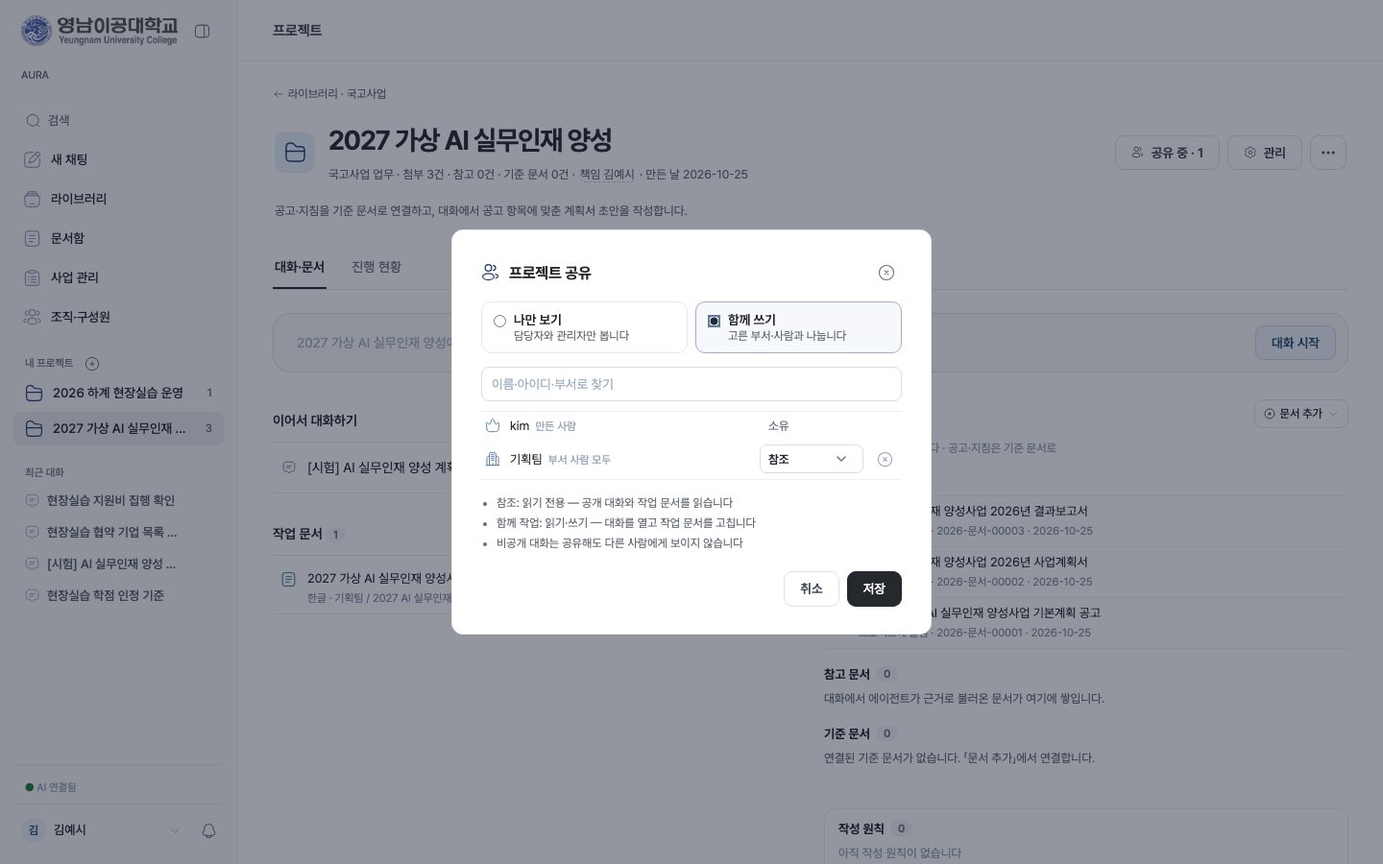
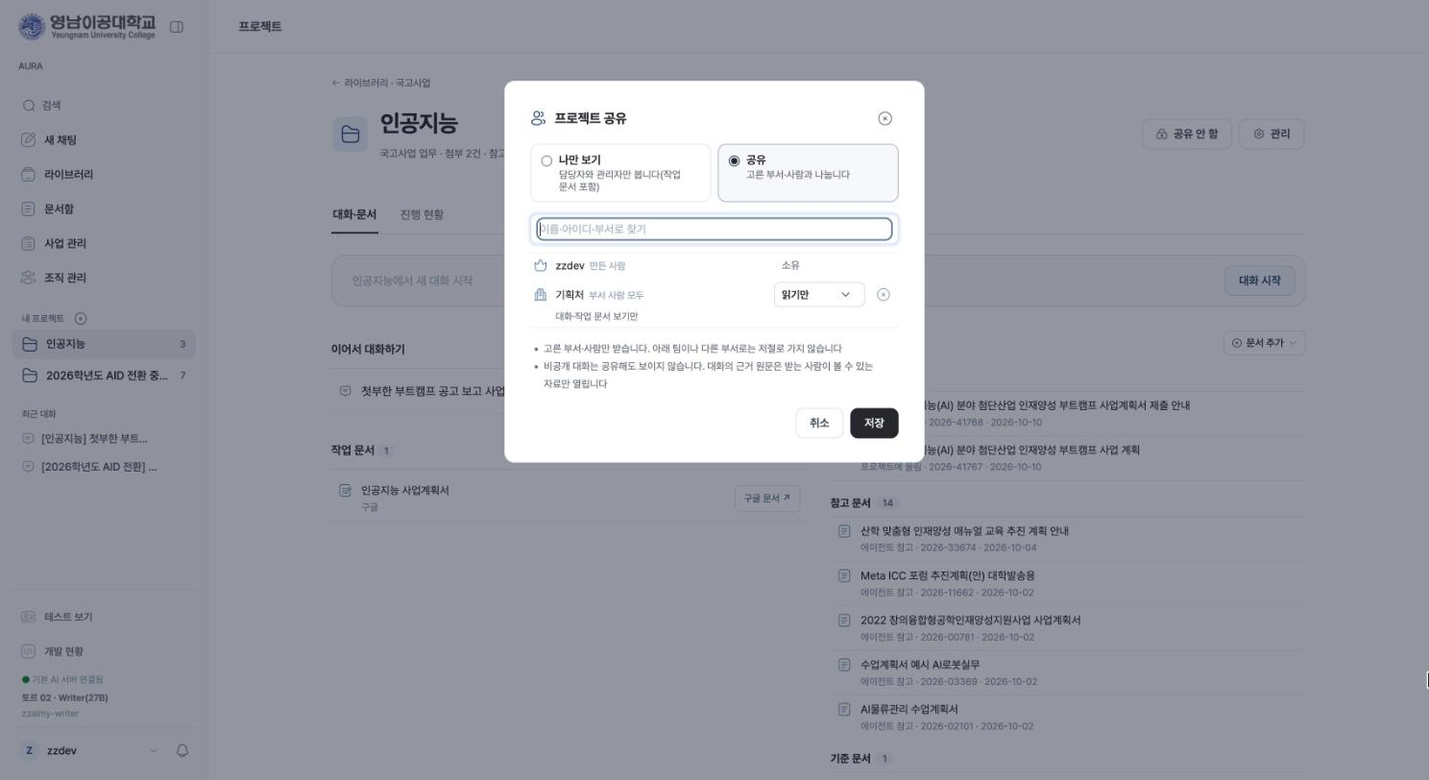
논문: 조직 관리·업무 도우미·개발 화면·진행 현황·공유 권한을 지금 화면으로, 그림 6장 다시 찍음
- 3장: 조직 관리(/team) 트리·전체 사용자, 단계 제한 없는 부서 트리(ADR-0073), 공유 읽기만/함께 작업(ADR-0075)
- 4장: 업무 도우미 옆 패널·아래 시트·폭 조절·화면 칸 번호·마지막 단추는 시킨 때만, 표 4-19·4-20(dev_nav 여섯 묶음), 진행 현황 탭, 공유 범위, 시연 흐름, 아바타 표기
- 부록: 관리자 화면 표, 5.1 계정과 부서, 개인정보 점검·도구 연결 단추, 시연 위치·흐름
- 그림: 06-org-chart·08-users·f4-20·f4-29·f4-30·g02 를 운영 화면(시험 계정, 전자우편 가림)으로
- 중간 발표자료: 테스트·커밋·ADR 수, 원본 관리·조직 관리 이름

diff --git a/docs/paper/논문/부록-사용-설명서.md b/docs/paper/논문/부록-사용-설명서.md
@@ -45,7 +45,7 @@ AURA 가 쓰는 글은 사람이 검토하는 초안이다. 숫자와 최종 판
 | 「공유받은 프로젝트」 | 다른 사람이 나와 나눈 프로젝트 |
 | 「최근 대화」 | 지난 대화. 줄 끝 「⋯」 에서 「이름 변경」·「보관」·「삭제」 |
 | 사이드바 아래 | AI 연결 상태(「● AI 연결됨」), 「알림」 종, 사용자 메뉴(「설정」·「로그아웃」) |
-| 오른쪽 아래 | 「업무 도우미」 단추(채팅 화면과 프로젝트 첫 화면에는 없다) |
+| 오른쪽 아래 | 「업무 도우미」 단추. 누르면 오른쪽 옆 패널(좁은 화면은 아래 시트)이 열린다. 채팅 화면과 프로젝트 첫 화면에는 없다 |
 
 메뉴는 계정에 따라 다르게 보인다. 다음 표에서 ○ 는 보임, × 는 보이지 않음이다.
 
@@ -57,7 +57,7 @@ AURA 가 쓰는 글은 사람이 검토하는 초안이다. 숫자와 최종 판
 | 「조직 관리」 | × | ○(보기) | ○(보기) | ○(맡은 부서 구성원) | ○(맡은 처·단 아래) | ○(전체·계정) |
 | 「프로젝트 추가」(+) | × | ×(권한을 받으면 ○) | ○ | ○ | ○ | ○ |
 | 「알림」 종, 업무 도우미 | × | ○ | ○ | ○ | ○ | ○ |
-| 「테스트 보기」, 「공동 편집 시연」, 「개발 현황」 | × | × | × | × | × | ○ |
+| 「테스트 보기」, 「개발 현황」(공동 편집 시연은 개발 화면 안) | × | × | × | × | × | ○ |
 
 [표 부록-1] 계정별로 보이는 메뉴
 
@@ -131,7 +131,7 @@ AURA 가 쓰는 글은 사람이 검토하는 초안이다. 숫자와 최종 판
 ### 2.6 관리자 — 첫 점검
 
 1. 사이드바 아래 「개발 현황」 을 눌러 개발 화면으로 들어간다(/dev).
-2. 「사용자·계정」 에서 계정·부서를 확인하고, 「학교 계정 연결 현황」 에서 구글 앱이 등록됐는지 본다.
+2. 「구글 계정 연결」 에서 구글 앱이 등록됐는지와 「학교 계정 연결 현황」 을 본다. 계정·부서는 업무 화면의 「조직 관리」 에서 확인한다(부록 4.10).
 3. 「도구·모델 연결」 의 「LLM 연결」 에서 서버별 「연결 확인」 을 누른다.
 4. 「RAG 공간」 에서 공통·부서·학생 RAG 의 문서 수를 확인한다.
 5. 업무 화면으로 돌아가(「업무 화면으로」) 「테스트 보기」 로 다른 계정이 보는 범위를 확인한다(부록 5.2).
@@ -568,12 +568,16 @@ AURA 가 쓰는 글은 사람이 검토하는 초안이다. 숫자와 최종 판
 
 업무 도우미는 채팅 밖 모든 화면 오른쪽 아래의 둥근 단추로 연다. 화면 사용법을 묻거나 화면에서 할 일을 맡긴다.
 
-1. 오른쪽 아래 단추를 눌러 「업무 도우미」 패널을 연다.
+1. 오른쪽 아래 단추를 눌러 「업무 도우미」 패널을 연다. 넓은 화면에서는 오른쪽 옆 패널로 열려 본문이 그만큼 좁아지고(본문 단추를 가리지 않는다),
+   좁은 화면에서는 아래에서 올라오는 시트로 열린다. 패널 왼쪽 가장자리를 끌어 폭을 바꾸면 그 폭을 기억한다.
 2. 「메시지를 입력하세요」 칸에 묻는다. 예: 「이 규정 학생에게 공개하려면 어떻게 해?」, 「새 프로젝트 만들고 계획서 쓰기 시작해 줘」.
 3. 도우미가 할 일을 제안하면 「이렇게 하겠습니다 — …」 와 함께 「실행」 단추가 뜬다. 누르면 서버가 권한을 다시 확인한 뒤 화면 단추와 같은 일을 한다. 직접 하고 싶으면 「화면에서 직접」 을 누른다. 화면 위 커서가 그 단추를 가리켜 보인다.
 4. 화면의 글을 선택하면 「쉽게 설명」·「간추리기」·「관련 규정 찾기」·「직접 묻기」 메뉴가 뜬다.
-5. 화면 조작을 시키면(「성명 홍길동으로 넣어 줘」) AURA 커서가 그 칸에 넣는다. 저장 같은 마지막 단추는 「저장해 줘」처럼 직접 말했을 때만 누르고, 아니면 「실행」 을 눌러 맡긴다.
-6. 지난 대화는 패널 머리의 「지난 대화」 에서 이어 간다. 패널은 화면 오른쪽에 붙어 본문을 가리지 않고, 다른 화면으로 옮기면 닫힌다.
+5. 화면 조작을 시키면(「문서함에서 ○○ 폴더 열어 줘」, 「성명 홍길동으로 넣어 줘」) AURA 커서가 화면을 옮기고 창을 열고 칸에 넣는다. 지금 화면에 보이는
+   칸·단추라면 안내 자료에 없는 것도 다룬다. 저장 같은 마지막 단추는 「저장해 줘」처럼 직접 말했을 때만 누르고, 아니면 가리키기만 하고 「실행」 을 둔다.
+   커서가 한 일은 「화면에서 한 일」 한 줄로 남는다.
+6. 패널 머리의 「지난 대화」 에서 날짜별로 묶인 지난 대화를 찾아 이어 가고, 「새 대화」 로 새로 시작하며, 「닫기」 로 닫는다. 다른 화면으로 옮기면 닫히고,
+   커서가 화면을 옮겨 이어 할 일이 있을 때만 다시 열린다.
 
 [그림 부록-23] 업무 도우미 창과 「실행」 제안 (그림 docs/images/figures-1025/fA-23-helper-run-suggestion.jpg)
 
@@ -591,7 +595,7 @@ AURA 가 쓰는 글은 사람이 검토하는 초안이다. 숫자와 최종 판
 
 [표 부록-12] 조직 관리
 
-[그림 부록-24] 조직 관리 (그림 docs/images/06-org-chart.jpg — 다시 찍을 것)
+[그림 부록-24] 조직 관리 — 왼쪽 부서 트리와 고른 부서의 구성원 (그림 docs/images/06-org-chart.jpg)
 
 부서 지우기: 아래 부서가 있으면 확인 창에서 「아래 부서를 위로 올리기」(지운 부서의 자리로 옮겨 둠)와 「아래 부서도 함께 지우기」 가운데 고른다. 소속 사람이 있는 부서는 지우지 않는다.
 
@@ -616,41 +620,46 @@ AURA 가 쓰는 글은 사람이 검토하는 초안이다. 숫자와 최종 판
 
 | 묶음 | 화면 | 주소 | 하는 일 |
 |---|---|---|---|
-| 개요 | 개발 현황 | /dev | 규모, 문서 흐름, 「구축 현황」·「진행 현황」, 「영역별 완료 비율」, 모델 개발·학습 현황 |
-| 개요 | 처리 흐름 | /dev/flow | 문서가 검색·답·초안이 되기까지의 단계와 지금 수치 |
-| 문서·데이터 | 처리 흐름 「반입 점검」 | /dev/flow#intake | 학교 원본 → 라이브러리까지의 수, 빠진 원본·실패 목록(점검·다시 들이기는 자동) |
-| 문서·데이터 | 데이터 현황 | /dev/db | 「원본 장부」·「문서」·「기준 문서」·「대화 기록」 원값 찾기 |
-| 문서·데이터 | 원본 관리 | /dev/archive | 학교 원본 전부를 사업·연도·종류·처리 상태로 찾기, 「정리」(정리함으로·남기기), 「처리 실패」 다시 시도. 옛 /archive 주소는 여기로 |
+| 개요 | 개발 현황 | /dev | 「프로젝트 현황」, 「구축 현황」·「진행 현황」, 「영역별 완료 비율」, 모델 개발·학습 현황 |
+| 개요 | 처리 흐름 | /dev/flow | 단계 한눈 그림, 문서가 검색·답·초안이 되기까지의 단계와 지금 수치, 「반입 점검」(학교 원본 → 라이브러리까지의 수, 빠진 원본) |
+| 개요 | 논문·설계 문서 | /dev/docs | 「핵심 자료」(처음 읽을 것·논문 자료·계획·주간 보고서), 「설계 결정」, 「기록·자료 목록」 |
+| 문서 반입·읽기 | 데이터 현황 | /dev/db | 「원본 장부」·「문서」·「기준 문서」·「대화 기록」 원값 찾기 |
+| 문서 반입·읽기 | 원본 관리 | /dev/archive | 학교 원본 전부를 사업·연도·종류·처리 상태로 찾기, 「정리」(정리함으로·남기기), 「처리 실패」 다시 시도. 옛 /archive 주소는 여기로 |
 | 검색·지식 | RAG 공간 | /dev/rag | 공통·부서·학생 RAG, 규정 학생 공개, 계정별 추가 권한, 「검색 범위 시험」 |
 | 검색·지식 | 그래프 탐색 | /graph/explore | 지식그래프와 온톨로지, 내려받기 |
-| 모델 | 데이터·학습 | /dev/train | 문답 검수(Label Studio), 데이터 묶음 이력, 학습 점검 |
-| 모델 | 수집 자료 | /dev/collect | 대화·답 실행·평가·에이전트 기록을 가린 사본 묶음으로 받기 |
-| 모델 | 도구·모델 연결 | /dev/tools | 「외부 연결」, 「학습 도구 상태」, 「LLM 연결」, 「단계별 모델」 |
-| 점검 | 품질·성능 | /dev/quality | 「규정 검색 품질」, 「사업 문서 검색(GraphRAG)」, 「추출 품질 백로그」 |
-| 점검 | 개인정보·반출 점검 | /dev/pii | 「내부 마스킹 설정」, 「자가 점검 실행」, 「잔여 검사 실행」 |
-| 관리·기록 | 사용자·계정 | /dev/users | 사용자, 부서, 「학교 계정 연결 현황」 |
-| 관리·기록 | 논문·설계 문서 | /dev/docs | 설계 결정(ADR), 논문 자료, 주간 보고서 |
-| (사이드바 밖) | 변경 이력 · 모델 비교 결과 · 공동 편집 시연 | /dev/history · /dev/models/compare · /dev/coedit-demo | 작업 기록, 모델 비교 표, 세 칸 시연 |
+| 검색·지식 | 품질·성능 | /dev/quality | 「규정 검색 품질」, 「사업 문서 검색(GraphRAG)」, 「추출 품질 백로그」 |
+| 문서 작성 | 공동 편집 시연 | /dev/coedit-demo | 세 칸 시연(부록 5.7) |
+| 모델 학습 | 데이터·학습 | /dev/train | 문답 검수(Label Studio), 데이터 묶음 이력, 학습 점검 |
+| 모델 학습 | 수집 자료 | /dev/collect | 대화·답 실행·평가·에이전트 기록을 가린 사본 묶음으로 받기 |
+| 모델 학습 | 도구·모델 연결 | /dev/tools | 「외부 연결」, 「LLM 연결」, 「단계별 모델」 |
+| 보안·관리 | 구글 계정 연결 | /dev/users | 「Google 앱 등록」(처음 한 번), 「학교 계정 연결 현황」. 계정·부서는 조직 관리(/team) |
+| 보안·관리 | 개인정보·반출 점검 | /dev/pii | 「내부 마스킹 설정」, 「마스커 자가 점검」·「저장 본문 잔여 검사」 결과(주기 작업이 돌림) |
+| (사이드바 밖) | 변경 이력 · 모델 비교 결과 | /dev/history · /dev/models/compare | 작업 기록(개발 현황 머리에서), 모델 비교 표(개발 현황 모델 표의 Writer 줄에서) |
 
 [표 부록-13] 관리자 화면 목록
 
 [그림 부록-26] 개발 현황 (그림 docs/images/09-dev-status.jpg)
 
-### 5.1 사용자·계정, 등급, 부서
+### 5.1 계정, 등급, 부서
+
+계정과 부서는 업무 화면의 「조직 관리」(/team) 한 화면에서 다룬다(부록 4.10). 관리자에게는 트리 맨 위에 「전체 사용자」 가 보인다.
 
 계정 만들기
 
-1. 「사용자·계정」(/dev/users) → 「사용자」 카드의 「사용자 추가」 를 누른다.
-2. 아이디·이름·역할(교직원·학생·관리자)·부서·등급을 넣는다. 다른 부서를 겸하면 「＋ 겸직 부서 더하기」.
-3. 저장한 뒤 줄의 「편집」 → 「임시 비밀번호 만들기」 로 처음 비밀번호를 만들어 본인에게 따로 전한다.
+1. 「조직 관리」 → 트리 맨 위 「전체 사용자」 → 「계정 추가」 를 누른다.
+2. 아이디·이름·역할(교직원·학생·관리자)·부서·등급을 넣는다. 다른 부서를 겸하면 겸직 부서를 더한다.
+3. 저장한 뒤 줄 끝 … › 「편집」 → 「임시 비밀번호 만들기」 로 처음 비밀번호를 만들어 본인에게 따로 전한다.
+4. 여러 계정을 한꺼번에 바꿀 때는 줄을 체크하고 목록 위 작업 줄에서 「역할 바꾸기」·「부서 옮기기」·「사용 중지」 를 고른다.
 
-[그림 부록-27] 사용자·계정 — 사용자 표와 부서 표 (그림 docs/images/08-users.jpg)
+[그림 부록-27] 조직 관리의 「전체 사용자」 — 계정 찾기·거르기와 계정 목록 (그림 docs/images/08-users.jpg)
 
-부서 만들기: 「부서」 카드의 「부서 추가」. 부서를 만들면 그 부서 RAG 가 함께 생긴다. 「상위 부서 정하기」 로 처·단 아래에 팀·센터를 둔다.
+부서 만들기: 맨 위 부서는 트리 위 「부서」, 아래 부서는 위 부서의 「부서 설정」 › 「하위 부서 추가」. 부서를 만들면 그 부서 RAG 가 함께 생긴다.
+부서를 다른 부서 아래로 옮길 때는 트리에서 끌어다 놓거나 「상위 부서 옮기기」 를 쓴다.
 
-구글 앱 등록(처음 한 번): 「학교 계정 연결 현황」 카드의 「앱 등록」 → 「Google 앱 등록」 창. 등록한 뒤에는 사람마다 설정 화면에서 자기 학교 계정을 잇는다.
+구글 앱 등록(처음 한 번): 개발 화면 「구글 계정 연결」(/dev/users)의 「Google 앱 등록」. 등록한 뒤에는 사람마다 설정 화면에서 자기 학교 계정을 잇는다.
+연결 상태는 같은 화면의 「학교 계정 연결 현황」 에서 본다.
 
-참고: 관리자는 최대 두 명이다. 부서 드라이브 연결은 그 부서 총괄 책임자가 하고, 관리자는 「부서」 카드에서 연결 계정·폴더·권한을 확인만 한다(「권한 맞추기」).
+참고: 관리자는 최대 두 명이다. 부서 드라이브 연결은 그 부서 총괄 책임자가 「부서 설정」 › 부서 드라이브에서 하고, 관리자는 같은 자리에서 연결 계정·폴더·권한을 확인한다(「권한 맞추기」).
 
 ### 5.2 테스트 보기
 
@@ -682,7 +691,7 @@ AURA 가 쓰는 글은 사람이 검토하는 초안이다. 숫자와 최종 판
 1. 「LLM 연결」 카드에서 서버마다 「설정」 을 눌러 「연결 확인」 한다.
 2. 문서 작업 기본 서버는 「기본 서버로 지정」 으로 바꾼다.
 3. 「단계별 모델」 에서 용도별 모델을 「변경」 하고 「변경사항 저장」 을 누른다.
-4. 「외부 연결」 카드의 「연결 상태 확인」 으로 웹 검색 연결을 본다.
+4. 「외부 연결」 카드에서 외부 연결이 「연결됨」·「미연결」 인지 본다.
 
 [그림 부록-29] 도구·모델 연결 — LLM 연결과 단계별 모델 (그림 docs/images/figures-1025/fA-29-llm-connections.jpg)
 
@@ -691,8 +700,8 @@ AURA 가 쓰는 글은 사람이 검토하는 초안이다. 숫자와 최종 판
 ### 5.5 개인정보·반출 점검
 
 1. 「처리 정책」 의 「내부 마스킹 설정」 에서 반입·첨부·답의 가림을 항목별로 켜고 끈다. 기본은 꺼짐이고, 학습 반출은 이 설정과 상관없이 늘 가린다.
-2. 「점검 도구」 의 「자가 점검 실행」 으로 개인정보 가림이 알려진 꼴을 모두 잡는지 확인한다.
-3. 「잔여 검사 실행」 으로 저장된 본문에 남은 개인정보 꼴을 찾는다.
+2. 「마스커 자가 점검」 에서 개인정보 가림이 알려진 꼴을 모두 잡는지 본다. 합성 표본으로 매일 저절로 돈다.
+3. 「저장 본문 잔여 검사」 에서 저장된 본문에 남은 개인정보 꼴을 본다. 무거운 검사라 주 한 번 새벽에 돈다.
 
 ### 5.6 데이터·학습과 수집 자료
 
@@ -701,16 +710,16 @@ AURA 가 쓰는 글은 사람이 검토하는 초안이다. 숫자와 최종 판
 
 ### 5.7 공동 편집 시연
 
-한 화면에서 세 사람의 공동 편집을 보이는 관리자 기능이다(업무 화면 사이드바 아래 「공동 편집 시연」, /dev/coedit-demo).
+한 화면에서 세 사람의 공동 편집을 보이는 관리자 기능이다(개발 화면 사이드바 「문서 작성」 › 「공동 편집 시연」, /dev/coedit-demo).
 
-1. 「공동 편집 시연」 을 누른다. 처음이면 시연 계정 셋(로그인할 수 없는 계정)과 빈 시연 문서(1·2·3 절과 4 절 「AURA 정리」)가 저절로 만들어진다.
-2. 화면이 세 칸으로 나뉘고, 칸마다 다른 시연 계정의 커서가 자기 절(1·2·3)에 가 있다.
-3. 각 칸에서 자기 절이나 제목에 글을 쓰고 서식을 바꾼다. 다른 칸 화면에 0.2초 안팎으로 글이 나타나고, 옅은 바탕·색 커서·이름표가 보인다.
-4. 한 칸에서 다른 사람이 쓰는 절에 쳐 보면 그 이름표가 흔들리고 글은 들어가지 않는다.
-5. 「AURA 정리 쓰기」 를 누르면 27B 가 1~3 절을 읽고 4 절에 정리를 쓴다. 세 칸에서 글이 써 내려가고, 단추는 「AURA 읽는 중」 → 「AURA 쓰는 중」 으로 바뀐다(1~3분).
+1. 「공동 편집 시연」 을 누른다. 처음이면 시연 계정 셋(로그인할 수 없는 계정)과 제목만 있는 빈 시연 문서가 저절로 만들어지고, 화면이 세 칸으로 나뉜다.
+2. 「AURA 양식 불러오기」 를 누르면 27B 가 공통 양식에서 알맞은 양식을 찾아 그 문서에 불러온다. 세 칸이 함께 새 판으로 바뀐다.
+3. 각 칸에서 서로 다른 칸에 글을 쓴다. 다른 칸 화면에 0.2초 안팎으로 글이 나타나고, 옅은 바탕·색 커서·이름표와 머리줄 아바타가 보인다.
+4. 한 칸에서 다른 사람이 쓰는 칸에 쳐 보면 그 이름표가 흔들리고 글은 들어가지 않는다.
+5. 「AURA 이어 쓰기」 를 누르면 27B 가 빈 절을 차례로 쓴다. 세 칸에서 글이 써 내려가는 것이 보이고, 단추에 진행 상태(찾는 중·쓰는 중)가 보인다.
 6. 시연이 끝나면 「새 빈 문서」 를 한 번 더 눌러 쓴 글을 모두 지운 새 문서를 연다.
 
-[그림 부록-30] 공동 편집 시연 세 칸 (그림 docs/images/figures-1026/g02-coedit-three-panes.jpg)
+[그림 부록-30] 공동 편집 시연 세 칸 — AURA 가 불러온 양식 (그림 docs/images/figures-1026/g02-coedit-three-panes.jpg)
 
 참고: 시연 계정이 여는 곳은 시연 폴더 하나뿐이라 부서 문서나 공통 양식에는 닿지 않는다.
 

diff --git a/docs/paper/논문/그림-표-목록.md b/docs/paper/논문/그림-표-목록.md
@@ -4,7 +4,7 @@
 본문 글 상자(코드 블록 그림), 또는 「캡처 필요: 경로」다. 같은 화면을 여러 장에서 쓰면 처음 나온 장의 번호만 두고 뒤에서는 그 번호를 가리킨다
 (아래 「다른 장이 가리키는 그림」). 6장에는 그림·표가 없다. 그림 파일은 셋째 칸의 경로에 있다(10-22 첫 촬영 기록은 docs/archive/논문-그림-촬영-기록-1022.md).
 
-모든 캡처는 시험 환경(시험 계정, 지어낸 부서·사람·사업, 공통 양식, 공개 공고 서식)에서 찍고 서버 주소·사람 이름이 보이지 않게 한다. 구성도 4종은
+모든 캡처는 시험 환경(시험 계정, 지어낸 부서·사람·사업, 공통 양식, 공개 공고 서식)이나 운영 화면의 시험 계정으로 찍고 서버 주소·사람 이름·전자우편이 보이지 않게 한다. 구성도 4종은
 docs/images/diagrams/ 의 make_diagrams.py(SVG)와 render.mjs(PNG)로 만든다.
 
 ## 1장 서론
@@ -61,7 +61,7 @@ docs/images/diagrams/ 의 make_diagrams.py(SVG)와 render.mjs(PNG)로 만든다.
 | [그림 3-3] | 질의 흐름(검색 → 생성 → 검증) | docs/images/diagrams/c3-03-query-flow.png (10-26, make_diagrams_ch34.py) |
 | [그림 3-4] | 1 층 문서 폴더 배치 | docs/images/diagrams/c3-04-folders.png (10-26, make_diagrams_ch34.py) |
 | [그림 3-5] | 검색 단계의 권한 적용 | docs/images/diagrams/c3-05-access.png (10-26, make_diagrams_ch34.py) |
-| [그림 3-6] | 조직도 탭 — 처·단 카드와 팀·센터 줄 | docs/images/06-org-chart.jpg (10-24) |
+| [그림 3-6] | 조직 관리 — 왼쪽 부서 트리와 고른 부서의 구성원 | docs/images/06-org-chart.jpg (10-27, 운영 화면 · 시험 계정, 전자우편 가림) |
 | [그림 3-7] | 용도별 연결과 모델 교체 구조 | docs/images/diagrams/c3-07-model-swap.png (10-26, make_diagrams_ch34.py) |
 | [표 3-1] | 장비 구성과 역할 | 본문 표 |
 | [표 3-2] | 층별 소프트웨어 구성 | 본문 표 |
@@ -95,7 +95,7 @@ docs/images/diagrams/ 의 make_diagrams.py(SVG)와 render.mjs(PNG)로 만든다.
 | [그림 4-17] | 프로젝트 화면 「대화·문서」 탭 — 프로젝트 문서·작성 원칙·관련 지난 사업 | docs/images/figures-1025/f4-17-project-chat-docs.jpg (10-25, 로컬 시험 데이터) |
 | [그림 4-18] | 채팅과 문서 패널 — 「작업 문서」·「첨부 문서」·「참고 문서」·「기준 문서」, 편집기 「한글」/「구글」 | docs/images/figures-1025/f4-18-chat-document-panel.jpg (10-25, 로컬 시험 데이터) |
 | [그림 4-19] | 「필요한 값 입력」 칸과 「자료에서 찾음 · 확인 전」 제안 | docs/images/figures-1025/f4-19-needed-values.jpg (10-25, 로컬 시험 데이터) |
-| [그림 4-20] | 프로젝트 공유 창 — 「나만 보기」/「공유」, 「읽기만」/「함께 작업」 | docs/images/figures-1025/f4-20-project-share-dialog.jpg (10-25, 로컬 시험 데이터) |
+| [그림 4-20] | 프로젝트 공유 창 — 「나만 보기」/「공유」, 「읽기만」/「함께 작업」 | docs/images/figures-1025/f4-20-project-share-dialog.jpg (10-27, 운영 화면 · 시험 계정, 전자우편 가림, 저장하지 않고 창만 연 모습) |
 | [그림 4-21] | 문서 작업 에이전트의 단계 구조와 관문 | docs/images/diagrams/c4-21-doc-agent.png (10-26, make_diagrams_ch34.py) |
 | [그림 4-22] | 한글 문서함 — 왼쪽 위치와 꽉 찬 목록 | docs/images/figures-1025/f4-22-hwp-box.jpg (10-25, 로컬 시험 데이터) |
 | [그림 4-23] | 「사본을 어디에 만들까요」 창 | docs/images/figures-1025/f4-23-copy-where-dialog.jpg (10-25, 로컬 시험 데이터) |
@@ -103,9 +103,9 @@ docs/images/diagrams/ 의 make_diagrams.py(SVG)와 render.mjs(PNG)로 만든다.
 | [그림 4-25] | 세 창 동시 편집 — 옅은 바탕·칸 끝 커서·이름표, 머리줄 아바타와 같이 있는 사람 목록 | docs/images/figures-1025/g01-coedit-pane-people.jpg (10-25, /dev/coedit-demo 의 김가람 칸 — 시연 계정) |
 | [그림 4-26] | 원본 서식 보존 채우기 | docs/images/diagrams/c4-26-hwpx-fill.png (10-26, make_diagrams_ch34.py) |
 | [그림 4-27] | 칸 단위 공동 편집의 흐름 — 사람이 칠 때·AURA 가 쓸 때 | docs/images/diagrams/c4-27-coedit-field.png · c4-27b-coedit-aura.png (10-26 저녁 다시 그림 — 바뀐 부분·서식 블록, AURA 흘려 쓰기. 처리 흐름 화면과 같은 그림 — make_diagrams.py coedit) |
-| [그림 4-28] | 공동 편집 시연 화면 — 세 사람이 1·2·3 절을 동시에 | docs/images/figures-1026/g02-coedit-three-panes.jpg (10-26, 시연 계정 셋) |
-| [그림 4-29] | 설정의 「구글 계정」·「문서 편집기」 칸 | docs/images/figures-1025/f4-29-settings.jpg (10-25, 로컬 시험 데이터) |
-| [그림 4-30] | 조직·구성원의 「부서 드라이브」 칸 | docs/images/figures-1025/f4-30-team-dept-drive.jpg (10-25, 로컬 시험 데이터) |
+| [그림 4-28] | 공동 편집 시연 화면 — 세 시연 계정 창에 AURA 가 불러온 양식이 함께 열린 모습 | docs/images/figures-1026/g02-coedit-three-panes.jpg (10-27, 운영 화면 · 시연 계정 셋) |
+| [그림 4-29] | 내 설정 — 프로필·보안·「구글 계정」 칸 | docs/images/figures-1025/f4-29-settings.jpg (10-27, 운영 화면 · 시험 계정, 전자우편 가림) |
+| [그림 4-30] | 조직 관리 부서 설정의 「부서 드라이브」 칸 | docs/images/figures-1025/f4-30-team-dept-drive.jpg (10-27, 운영 화면 · 시험 계정, 전자우편 가림) |
 | [그림 4-31] | 업무 도우미 창 — 제안과 「실행」·「화면에서 직접」, 화면 위 커서 | docs/images/figures-1025/f4-31-helper-dev-rag.jpg·docs/images/figures-1025/f4-31b-helper-screen-cursor.jpg (10-25, 로컬 시험 데이터) |
 | [그림 4-32] | 개발 현황 — 규모와 「시스템 구성」 그림, 여섯 묶음 사이드바 | docs/images/figures-1026/f4-32-dev-status.jpg (10-26, 운영 화면 — 개인 정보 없음) |
 | [그림 4-33] | 도구·모델 연결의 「단계별 모델」 | docs/images/figures-1025/f4-33-stage-models.jpg (10-25, 로컬 시험 데이터) |
@@ -187,20 +187,20 @@ docs/images/diagrams/ 의 make_diagrams.py(SVG)와 render.mjs(PNG)로 만든다.
 | [그림 부록-14] | 칸으로 감싸지 않은 문서(아주 큰 문서 등)를 나중에 연 사람의 화면 — 보기 전용 | docs/images/02-hwp-edit-lock.jpg |
 | [그림 부록-15] | 규정 질문의 답 — 출처와 오른쪽 원문 대목 | docs/images/figures-1025/fA-15-regulation-answer-source.jpg (10-25, 로컬 시험 데이터) |
 | [그림 부록-16] | 「생각 과정」 을 펼친 답과 입력 칸 아래 문맥 사용량 | docs/images/figures-1025/f4-15-answer-sources-thinking.jpg |
-| [그림 부록-17] | 설정 화면 — 프로필, 문서 편집기, 구글 계정 | docs/images/figures-1025/f4-29-settings.jpg (10-25, 로컬 시험 데이터) |
+| [그림 부록-17] | 설정 화면 — 프로필, 보안, 구글 계정 | docs/images/figures-1025/f4-29-settings.jpg (10-27, [그림 4-29] 와 같은 화면) |
 | [그림 부록-18] | 문서 패널 — 편집기 고르기, 작업 문서, 첨부·참고·기준 문서 | docs/images/figures-1025/f4-18-chat-document-panel.jpg |
 | [그림 부록-19] | 「파일 가져오기」 창 — 왼쪽 위치, 오른쪽 폴더·한글 파일 목록, 경로 줄 | docs/images/figures-1022/f05-file-finder.jpg |
 | [그림 부록-20] | 「편집 도구」 를 펼친 기안기 — 메뉴, 리본, 서식줄 | docs/images/figures-1025/f4-24-editor-more-menu.jpg |
 | [그림 부록-21] | 「프로젝트 공유」 창 | docs/images/figures-1025/f4-20-project-share-dialog.jpg (10-25, 로컬 시험 데이터) |
 | [그림 부록-22] | 그래프 탐색 — 사업 중심 그래프와 노드 패널 | docs/images/figures-1025/fA-22-graph-node-panel.jpg (10-25, 로컬 시험 데이터) |
 | [그림 부록-23] | 업무 도우미 창과 「실행」 제안 | docs/images/figures-1025/fA-23-helper-run-suggestion.jpg (10-25, 로컬 시험 데이터) |
-| [그림 부록-24] | 조직도 탭 | docs/images/06-org-chart.jpg |
+| [그림 부록-24] | 조직 관리 — 왼쪽 부서 트리와 고른 부서의 구성원 | docs/images/06-org-chart.jpg (10-27, [그림 3-6] 과 같은 화면) |
 | [그림 부록-25] | 사업 관리 — 연도별 표 | docs/images/07-programs.jpg |
 | [그림 부록-26] | 개발 현황 | docs/images/09-dev-status.jpg |
-| [그림 부록-27] | 사용자·계정 — 사용자 표와 부서 표 | docs/images/08-users.jpg |
+| [그림 부록-27] | 조직 관리의 「전체 사용자」 — 계정 찾기·거르기와 계정 목록 | docs/images/08-users.jpg (10-27, 운영 화면 · 시험 계정, 전자우편 가림) |
 | [그림 부록-28] | RAG 공간 — RAG 목록과 규정·지침 카드 | docs/images/figures-1025/fA-28-rag-regulations.jpg (10-25, 로컬 시험 데이터) |
 | [그림 부록-29] | 도구·모델 연결 — LLM 연결과 단계별 모델 | docs/images/figures-1025/fA-29-llm-connections.jpg (10-25, 로컬 시험 데이터) |
-| [그림 부록-30] | 공동 편집 시연 세 칸 | docs/images/figures-1026/g02-coedit-three-panes.jpg (10-26, [그림 4-28] 과 같은 화면) |
+| [그림 부록-30] | 공동 편집 시연 세 칸 — AURA 가 불러온 양식 | docs/images/figures-1026/g02-coedit-three-panes.jpg (10-27, [그림 4-28] 과 같은 화면) |
 | [그림 부록-31] | 모델 비교 결과 | docs/images/figures-1025/f4-37-model-compare.jpg (10-25, 로컬 시험 데이터) |
 | [표 부록-1] | 계정별로 보이는 메뉴 | 본문 표 |
 | [표 부록-2] | 교직원 등급 | 본문 표 |
@@ -213,7 +213,7 @@ docs/images/diagrams/ 의 make_diagrams.py(SVG)와 render.mjs(PNG)로 만든다.
 | [표 부록-9] | 기안기 머리줄 | 본문 표 |
 | [표 부록-10] | 공동 편집 안내 문구 | 본문 표 |
 | [표 부록-11] | 프로젝트 화면 | 본문 표 |
-| [표 부록-12] | 조직·구성원 | 본문 표 |
+| [표 부록-12] | 조직 관리 | 본문 표 |
 | [표 부록-13] | 관리자 화면 목록 | 본문 표 |
 | [표 부록-14] | RAG 공간에서 하는 일 | 본문 표 |
 | [표 부록-15] | 문제 해결 | 본문 표 |

diff --git a/docs/paper/논문/03-환경-설계.md b/docs/paper/논문/03-환경-설계.md
@@ -257,10 +257,11 @@ AURA 의 처리는 두 파이프라인으로 나뉘고, 둘이 만나는 곳은 
 
 [표 3-6] 교직원 등급과 작업 권한
 
-부서는 두 단계로 본다. 총괄 책임자는 처·단 급, 사업 책임자와 행정 담당자는 팀·센터 급이다. 부서 목록은 학칙·직제·사무분장
-규정과 학교 누리집의 기관 조직으로 맞췄고 운영 부서 82 개, 상위 관계 54 개다. 조직도는 관리자와 맡은 처·단의 총괄
-책임자만 고치고, 고치는 검사·쓰기·되돌리기는 하나의 잠금 안에서 한 번에 한다. 일반 직원에게는 조직도를 보기만 열고
-아이디·겸직·문서 수는 싣지 않는다.
+부서는 위아래 관계를 가진 트리로 본다. 총괄 책임자는 맨 위 처·단 급, 사업 책임자와 행정 담당자는 그 아래 팀·센터 급이다.
+단계 수에는 제한을 두지 않고 순환만 막는다(ADR-0073). 부서 목록은 학칙·직제·사무분장 규정과 학교 누리집의 기관 조직을
+기준으로 만들고, 운영에는 실제로 쓰는 부서만 올린다. 부서 트리는 교직원 누구나 보지만 고치는 것은 관리자와 맡은 처·단의
+총괄 책임자뿐이고, 고치는 검사·쓰기·되돌리기는 하나의 잠금 안에서 한 번에 한다. 고칠 권한이 없는 사람에게는 아이디·겸직·
+문서 수를 싣지 않는다.
 
 ### 3.5.3 열람 범위와 RAG 공간
 
@@ -284,25 +285,25 @@ AURA 의 처리는 두 파이프라인으로 나뉘고, 둘이 만나는 곳은 
 
 ### 3.5.4 사용 방법 — 등급 정하기와 범위 확인
 
-1. 관리자나 처·단 총괄 책임자가 「조직·구성원」(/team)의 「조직도」 탭에서 부서 나무를 본다. 관리자는 「부서 더하기」로 부서를 더하고 처·단의 총괄 책임자를
-   지정한다. [그림 3-6]
-2. 「구성원」 탭에서 사람마다 등급 칸을 「일반」·「행정 담당자」·「사업 책임자」 가운데 고르면 바로 저장된다. 부서를 옮길 때는 「부서 바꾸기」를 쓴다.
-3. 관리자는 「사용자·계정」(/dev/users)에서 사용자를 추가하고 「＋ 겸직 부서 더하기」나 「추가 권한 — 등급과 따로 이 사람에게만」으로 예외를 준다.
+1. 사이드바 「조직 관리」(/team)를 연다. 왼쪽은 부서 트리, 오른쪽은 고른 부서의 「구성원」·「부서 설정」 탭이다. 관리자는 트리 위 「부서」로 맨 위 부서를,
+   부서의 「부서 설정」 › 「하위 부서 추가」로 아래 부서를 더하고, 맨 위 부서의 「총괄 책임자 정하기」로 총괄 책임자를 지정한다. [그림 3-6]
+2. 「구성원」 탭에서 사람을 체크하면 목록 위에 작업 줄이 뜬다. 「등급 바꾸기」로 「일반」·「행정 담당자」·「사업 책임자」 가운데 고르고, 「옮기기」로 부서를 옮긴다.
+3. 관리자는 트리 맨 위 「전체 사용자」에서 「계정 추가」로 사용자를 만들고, 줄 끝 … › 「편집」에서 겸직 부서와 추가 권한으로 예외를 준다.
 4. 설정이 맞는지는 사이드바 아래 「테스트 보기」로 그 계정의 화면과 검색 범위를 그대로 보며 확인한다(4.10.2 참고).
 
-[그림 3-6] 조직도 탭 — 처·단 카드와 팀·센터 줄 (그림 docs/images/06-org-chart.jpg)
+[그림 3-6] 조직 관리 — 왼쪽 부서 트리와 고른 부서의 구성원 (그림 docs/images/06-org-chart.jpg)
 
 > 참고: 사업별 책임자 지정은 「사업 관리」(/programs/admin)의 줄 메뉴 「편집」 › 「지정」에서 「총괄 책임자」·「사업 책임자」·「행정 담당자」를 고른다.
 > 지정은 그 사업에 이어진 프로젝트의 진행 현황을 볼 권한으로 이어진다.
 
-업무 시나리오로 보면, 교무처에 새 팀이 생겨 담당자 두 명이 들어왔다고 하자. 관리자가 조직도에서 교무처 아래에 팀을 더하고, 구성원 탭에서 두 사람을 그 팀으로
-옮겨 한 사람은 「사업 책임자」, 한 사람은 「일반」으로 둔다. 「테스트 보기」로 일반 등급을 골라 보면 「프로젝트 추가」가 막히고, 공유받은 프로젝트에서만 작업할 수
+업무 시나리오로 보면, 교무처에 새 팀이 생겨 담당자 두 명이 들어왔다고 하자. 관리자가 조직 관리 트리에서 교무처를 골라 「부서 설정」 › 「하위 부서 추가」로 팀을 더하고, 그 팀의 「구성원」에서 「사람 추가」로 두 사람을
+넣어 한 사람은 「사업 책임자」, 한 사람은 「일반」으로 둔다. 「테스트 보기」로 일반 등급을 골라 보면 「프로젝트 추가」가 막히고, 공유받은 프로젝트에서만 작업할 수
 있음을 확인한다. 검색 범위는 두 사람 모두 같은 부서 규칙을 따른다.
 
 ### 3.5.5 바꾸는 권한과 외부 계정
 
-문서를 지우거나 고치는 요청은 올린 사람과 관리자만, 프로젝트는 담당자와 관리자만 바꾼다. 같은 부서 동료의 프로젝트는 읽기
-전용이다. 구글 계정은 사용자가 각자 학교 계정을 연결하고, 부서 드라이브는 그 부서 총괄 책임자가 부서 공용 학교 계정으로
+문서를 지우거나 고치는 요청은 올린 사람과 관리자만, 프로젝트는 담당자와 관리자만 바꾼다. 다른 사람은 담당자가 공유한
+부서·사람만 「읽기만」(대화·작업 문서 보기) 또는 「함께 작업」(보기와 고치기)으로 쓴다(ADR-0075). 구글 계정은 사용자가 각자 학교 계정을 연결하고, 부서 드라이브는 그 부서 총괄 책임자가 부서 공용 학교 계정으로
 연결한다. 부서 계정의 토큰은 그 부서 폴더 안 문서를 만들고 다룰 때만 쓰고, 드라이브 찾기·가져오기는 본인 계정으로만 한다.
 부서 계정으로 아무 폴더나 둘러볼 수 없게 하려는 것이다. 감사 기록에는 질문 앞부분만 남기고 원문 전체는 남기지 않는다.
 
@@ -373,6 +374,6 @@ MTP 추측 디코딩은 모델 안에 든 다음 토큰 예측 층[14]이 토큰
 이 장의 다이어그램([그림 3-1]~[그림 3-5], [그림 3-7])은 docs/images/diagrams/make_diagrams_ch34.py 로 그린 그림이다(10-26). 다음 그림은 원본 이미지가 있다. 장비 구성도는 [그림 1-2](docs/images/diagrams/01-system.png)를
 다시 쓴다. 개발 현황·RAG 공간·「테스트 보기」·「단계별 모델」 화면은 4 장의 [그림 4-32]·[그림 4-7]·[그림 4-34]·[그림 4-33] 을 가리킨다.
 
-- [그림 3-6] 조직도 탭 — 처·단 카드와 팀·센터 줄 (캡처 있음: docs/images/06-org-chart.jpg, 10-24 시험 환경)
+- [그림 3-6] 조직 관리 — 왼쪽 부서 트리와 고른 부서의 구성원 (캡처 있음: docs/images/06-org-chart.jpg, 10-27 운영 화면, 시험 계정)
 
 -->

diff --git a/docs/paper/중간-발표자료.md b/docs/paper/중간-발표자료.md
@@ -80,13 +80,13 @@
 | 개인정보·열람등급 검토 | 10-1 | 진행 | 70% | 계정별 열람 범위를 한 규칙으로 묶어 문서함·검색·그래프·채팅에 적용, 바꾸는 권한 정리. 학교 개인정보 검토·등급 체계 확정은 남음 |
 | 플랫폼 설계 | 10-1~10-2 | 완료 | 100% | 화면 구성·권한 구조 확정 |
 | RAG·모델 파이프라인 설계 | 10-2 | 완료 | 100% | 사실은 그래프·RAG, 학습은 리즈닝(ADR-0047), 온톨로지(ADR-0048·0056) |
-| 플랫폼 개발 | 10-2~10-4 | 대부분 완료 | 85% | 채팅·라이브러리·원본 보관소·그래프·도우미·개발 화면 운영. 목표 대비 실적 화면, 한글 완성본 마무리 남음 |
+| 플랫폼 개발 | 10-2~10-4 | 대부분 완료 | 85% | 채팅·라이브러리·원본 관리·그래프·도우미·조직 관리·개발 화면 운영. 목표 대비 실적 화면, 한글 완성본 마무리 남음 |
 | 문서 데이터화 | 10-3~11-1 | 앞당겨 대부분 완료 | 90% | 문서 조각 1,848,580, 사업 문서 벡터 1,586,051. 판독 손상 57건 재판독, 미분류 49건 확인 남음 |
 | RAG 구축(하이브리드) | 11-1~11-2 | 앞당겨 운영 중 | 80% | 하이브리드 + 리랭커 + 지식그래프, 기준 측정 v2 검색 정답 문서 0.89. 상황 질의·판 고르기 개선 남음 |
 | 파인튜닝(SFT) | 11-2~11-3 | v1 비교 끝, v2 데이터 단계 | 20% | writer-v1 승인(10-18) 뒤 SFT v1 학습을 마쳤고, 병합본(NVFP4)을 10-24 오픈 모델과 같은 시험으로 비교해 채택하지 않았다(학습 꼴 chrF 27.9 → 36.6, 문서 작성 작업본 2/2 → 0/2, ADR-0069). Writer v2 학습 데이터(플랫폼 실제 요청 꼴) 생성·비교·서빙 이관 남음 |
 | 성능 고도화 | 11-3~11-4 | 앞당겨 진행 | 40% | 답 시간 134초 → 16.6초, 근거 밖 숫자 있는 답 0, 생성 10.6 → 24 토큰/초 |
 | 행정 업무 에이전트 | 11-3~11-4 | 앞당겨 운영 중 | 60% | 문서 작업 에이전트·업무 도우미 운영. 실물 공고 처음부터 끝까지, 결과보고서 초안 연결 남음 |
-| 시험·검증 | 11-4~12-1 | 일부 | 15% | 자동 테스트 2,492건(10-23), 모델 교체 점검 기준표. 실사용 파일럿·평가 확대는 남음 |
+| 시험·검증 | 11-4~12-1 | 일부 | 15% | 자동 테스트 2,732건(10-27), 모델 교체 점검 기준표. 실사용 파일럿·평가 확대는 남음 |
 | 캡스톤 발표 | 12-1 | 예정 | 0% | — |
 
 전체 진척도는 약 73%다. 계획표의 주차 칸(29칸)을 무게로 활동별 %를 평균했다. 같은 방식으로 계획상 10-3주까지 끝났어야 할 몫은 15칸, 약 52%다. RAG·지식그래프·에이전트가 계획보다 앞당겨졌고, 파인튜닝은 계획 시기(11-2) 전이며 학습셋은 최종 점검 결함을 고쳐 10-18 승인했고 SFT 를 앞당겨 시작한다.
@@ -144,14 +144,14 @@
 |---|---|
 | 에이전트 채팅(새 채팅) | 질문을 27B가 읽고 그래프와 검색으로 근거를 찾아 출처 번호를 달아 답한다. 출처를 누르면 오른쪽 작업 패널에 그 대목이 열린다. 문서 작성 요청이면 양식을 골라 웹 한글 기안기 문서의 절마다 초안을 쓴다 |
 | 라이브러리 · 문서 | 등록 문서 한 목록. 기준 문서(규정·공고)는 쓰임새 칩으로 구분, 같은 제목은 판본으로 묶음 |
-| 라이브러리 · 원본 보관소 | 학교 원본 파일을 사업 분류·연도·문서 종류·처리 상태로 보고, 처리하지 않을 원본은 정리함으로(되돌림 가능) |
+| 원본 관리(관리자) | 학교 원본 파일을 사업 분류·연도·문서 종류·처리 상태로 보고, 처리하지 않을 원본은 정리함으로(되돌림 가능). 교직원은 라이브러리 문서 줄의 「원본」 으로 원본을 연다(ADR-0074) |
 | 플랫폼 업무 도우미 | 화면 오른쪽 옆 패널(열면 본문이 그 폭만큼 좁아짐). 사용법 안내, 열기·찾기·칸 채우기는 AURA 커서가 바로, 저장 같은 마지막 단추와 자료를 바꾸는 일은 시킨 때만·[실행] 으로, 간단한 문서 질문은 바로 답 |
 | 그래프 탐색 | 사업 > 연차 > 문서 > 절 지식그래프. 사업 화면에서 연차별 문서, 성과지표, 계획 ↔ 실적 대응 |
 | 개발 현황 | 진행 상태와 지표. 화면 숫자는 기계 산출물에서만 |
 | 데이터·학습 | 학습 데이터 검수 → 승인 → 학습 단계, 승인된 학습셋 목록 |
 | 수집 자료 | 대화·답 실행 기록·답 평가·에이전트 걸음을 기간별로 골라 가린 사본으로 내려받기 |
 | 한글 문서함 | 부서·공통·내 폴더의 한글 문서를 웹 한글 기안기로 함께 고침(칸 단위 실시간 공동 편집, 머리줄에 같이 있는 사람). 즐겨찾기·최근 폴더, 공통 양식·지난 사업 문서 |
-| 조직·구성원 | 처·단 → 팀·센터 조직도, 교직원 등급, 부서 드라이브 연결(부서 총괄 책임자) |
+| 조직 관리 | 부서 트리(단계 제한 없음)·구성원·부서 설정·전체 사용자를 한 화면에서, 교직원 등급, 부서 드라이브 연결(부서 총괄 책임자) |
 | 사업 관리 | 교내 사업 장부 연도별 표, 책임자 지정, 합치기 미리보기·목록에서 빼기 |
 
 ### 데이터 규모(10-18 운영)
@@ -165,7 +165,7 @@
 | 지식그래프 | 노드 415,834 · 관계 583,557 · 사업 노드 136 |
 | 사업 장부 | 96개(교내 재정지원사업 현황 엑셀 66, 공개 출처로 확인한 옛 사업 등 30) |
 | 정리 | 쓸모없는 문서 697건 정리(백업 있음), 27B 파일 단위 사업 재판정 1,034건(사업으로 옮김 734) |
-| 개발 기록 | 자동 테스트 2,492건 · 커밋 약 1,950 · 결정 기록(ADR) 68건 (10-23) |
+| 개발 기록 | 자동 테스트 2,732건 · 커밋 약 2,190 · 결정 기록(ADR) 0001~0075 (10-27) |
 
 ### 실험 결과
 
@@ -183,7 +183,7 @@
 
 - 1단계: 에이전트 채팅에서 「사업 이름 + 연도 + 계획서의 절」을 묻는다 → 답과 출처 번호 → 출처를 눌러 작업 패널에서 원문 대목 확인
 - 2단계: 그래프 탐색에서 같은 사업을 연다 → 연차별 문서와 계획 ↔ 실적 대응
-- 3단계: 라이브러리 원본 보관소에서 사업 분류로 원본을 찾고 정리함을 보인다
+- 3단계: 관리자 「원본 관리」에서 사업 분류로 원본을 찾고 정리함을 보인다
 - 4단계: 채팅에서 초안을 요청한다 → 양식 고름 → 기안기 문서에 절 초안, 근거에 없는 숫자는 「(근거 확인 필요)」 표시
 - 5단계: 업무 도우미에 사용법을 묻고 [실행] 제안을 보인 뒤, 개발 현황에서 지표로 마무리
 

diff --git a/docs/dev-now.md b/docs/dev-now.md
@@ -40,6 +40,7 @@
 ## 최근 작업
 
 ### 2026-10-27
+- 논문 원고 현행화: 3장 조직 관리(/team 트리·전체 사용자, 단계 제한 없는 부서 트리)와 공유 「읽기만/함께 작업」, 4장 업무 도우미(옆 패널·아래 시트·폭 조절·화면 칸 번호로 다루기·마지막 단추는 시킨 때만)·개발 화면 표를 dev_nav 여섯 묶음으로·프로젝트 진행 현황 탭·공유 범위·시연 흐름(양식 불러오기 → 이어 쓰기)·아바타 표기, 부록 관리자 화면 표·5.1 계정과 부서·개인정보 점검(주기 실행)·도구 연결. 그림 3-6·4-20·4-28·4-29·4-30·부록-27 을 운영 화면(시험 계정, 전자우편 가림)으로 다시 찍음. 중간 발표자료의 테스트·커밋·ADR 수와 옛 화면 이름(원본 보관소·조직·구성원).
 - 프로젝트 진행 현황 화면 정리: 참여자는 가로 한 줄 칩(넘치면 줄 안에서 옆으로, 「모두 보기」 는 겹쳐 뜨는 찾기 창)이고 누르면 사용량·요청 기록·작업 요약이 모두 그 사람으로, 기간(전체·최근 30일·7일)도 같은 줄에서. 사용량은 작은 표 대신 인라인 SVG 날짜별 막대(요청 수·입력 토큰 전환, 9주 넘으면 주 단위, 막대에 올리면 그날 요청·답·토큰·호출)와 사람별 비율 막대(위 6명 + 그 외), 기록이 없어도 빈 축과 한 줄. 요청 기록은 대화 하나가 한 줄(같은 대화 제목 되풀이 없앰) — 「펼치기/접기」 로 그 대화의 요청, 찾은 글이 요청 안에 있으면 펼쳐 보임, 10개씩 더 보기, 넓은 화면에서는 사용량 카드 높이에 맞춰 안에서 넘김. 작업 요약은 같은 크기 카드 6개씩. 간격은 카드 사이·안 16, 제목 아래 12, 머리 조작 높이 32(tests/test_project_activity).
 - 배포 끊김 줄이기: 서비스를 끌 때 열린 알림 흐름을 5초만 기다림(전엔 systemd 가 90초 뒤 강제 종료 — 배포마다 1~2분 끊김).
 - 공동 편집 긴 양식에서 화면이 얼던 것: 30초 지문 맞추기가 넣어도 지문이 안 맞는 칸(실물 변환 양식의 표·특수 문자)을 매번 서버 글로 다시 넣었다 — 같은 판은 한 번만 바로잡기(settled).
